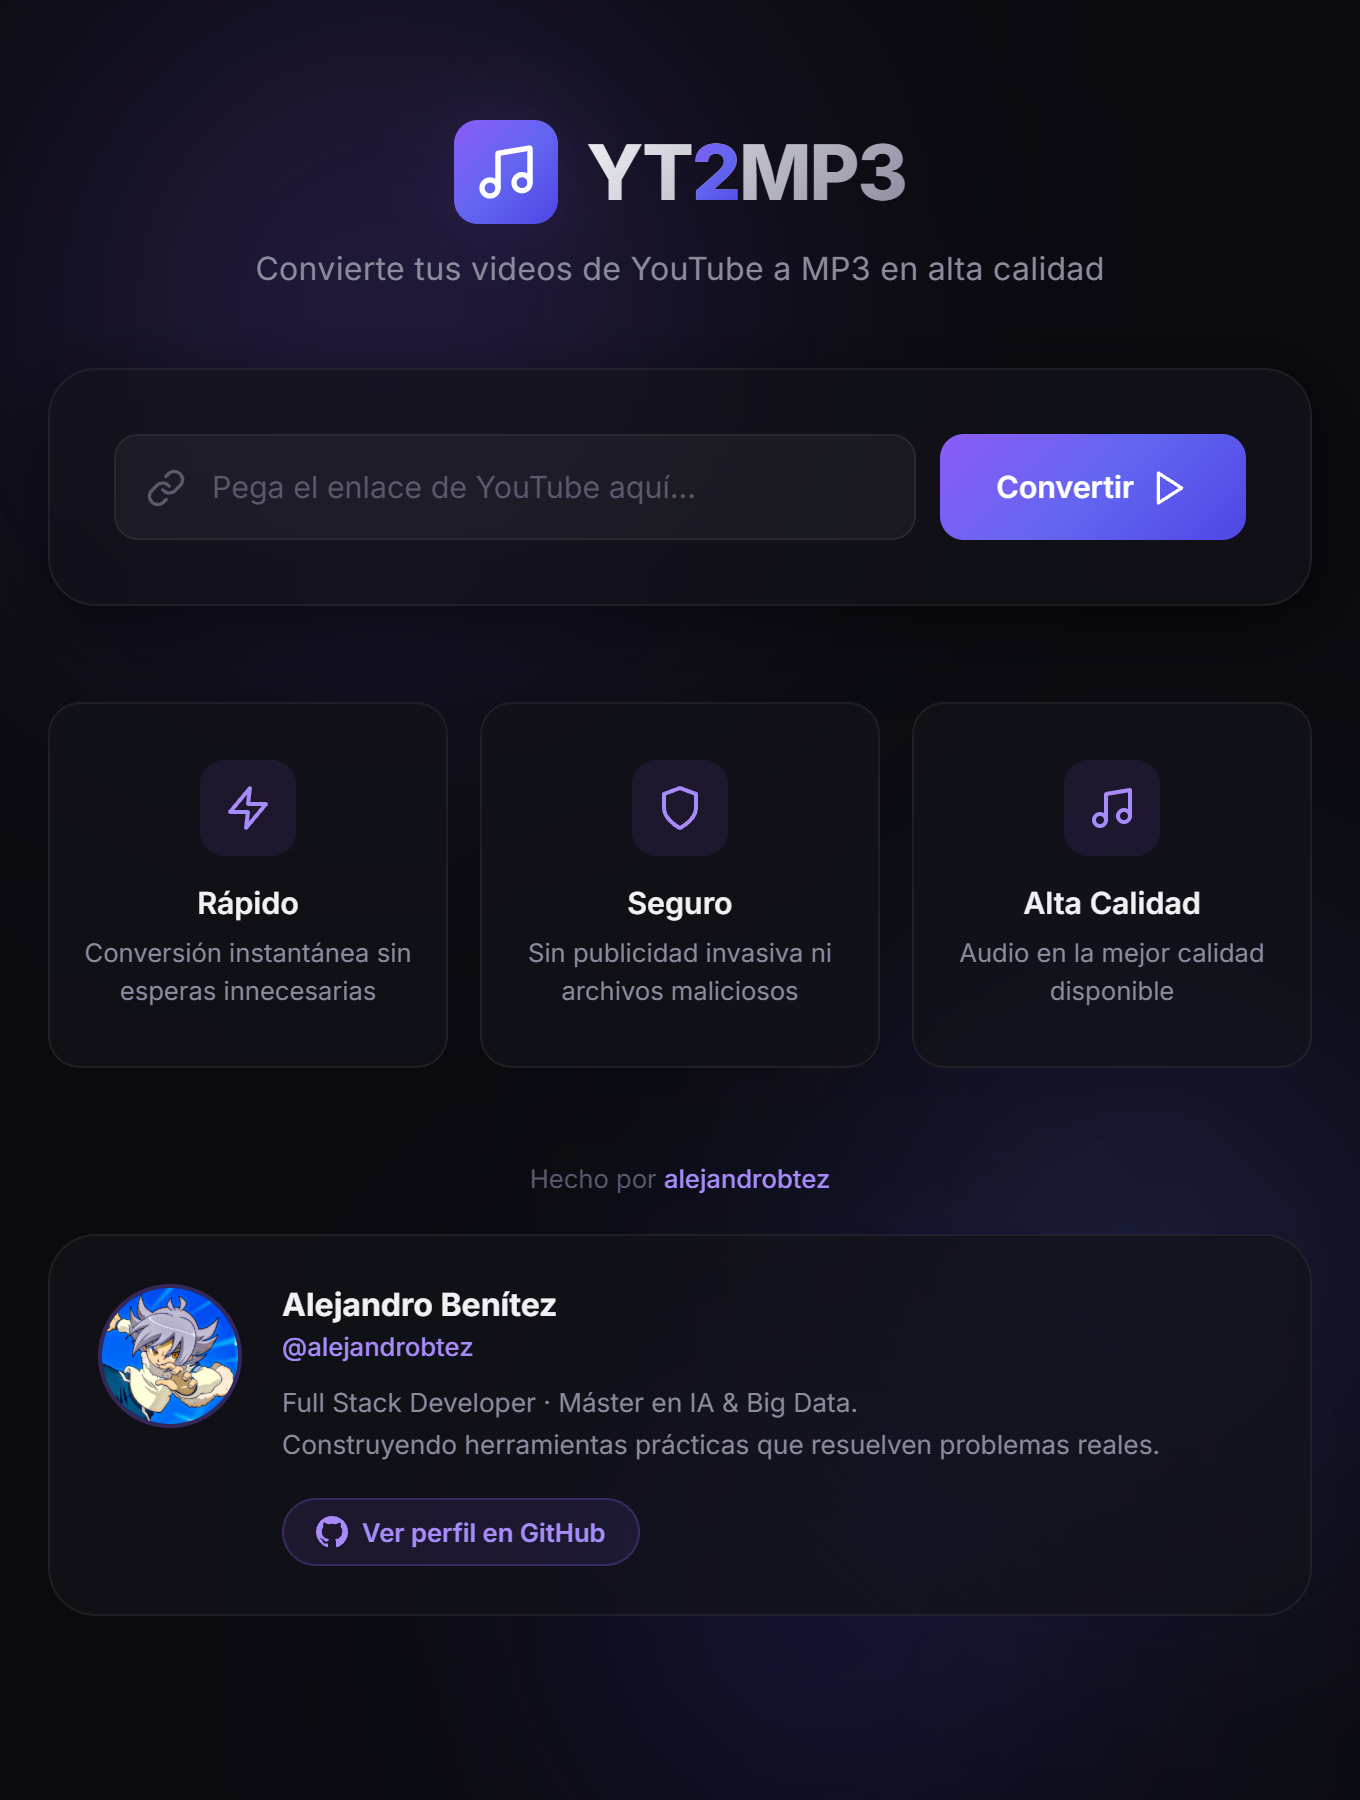
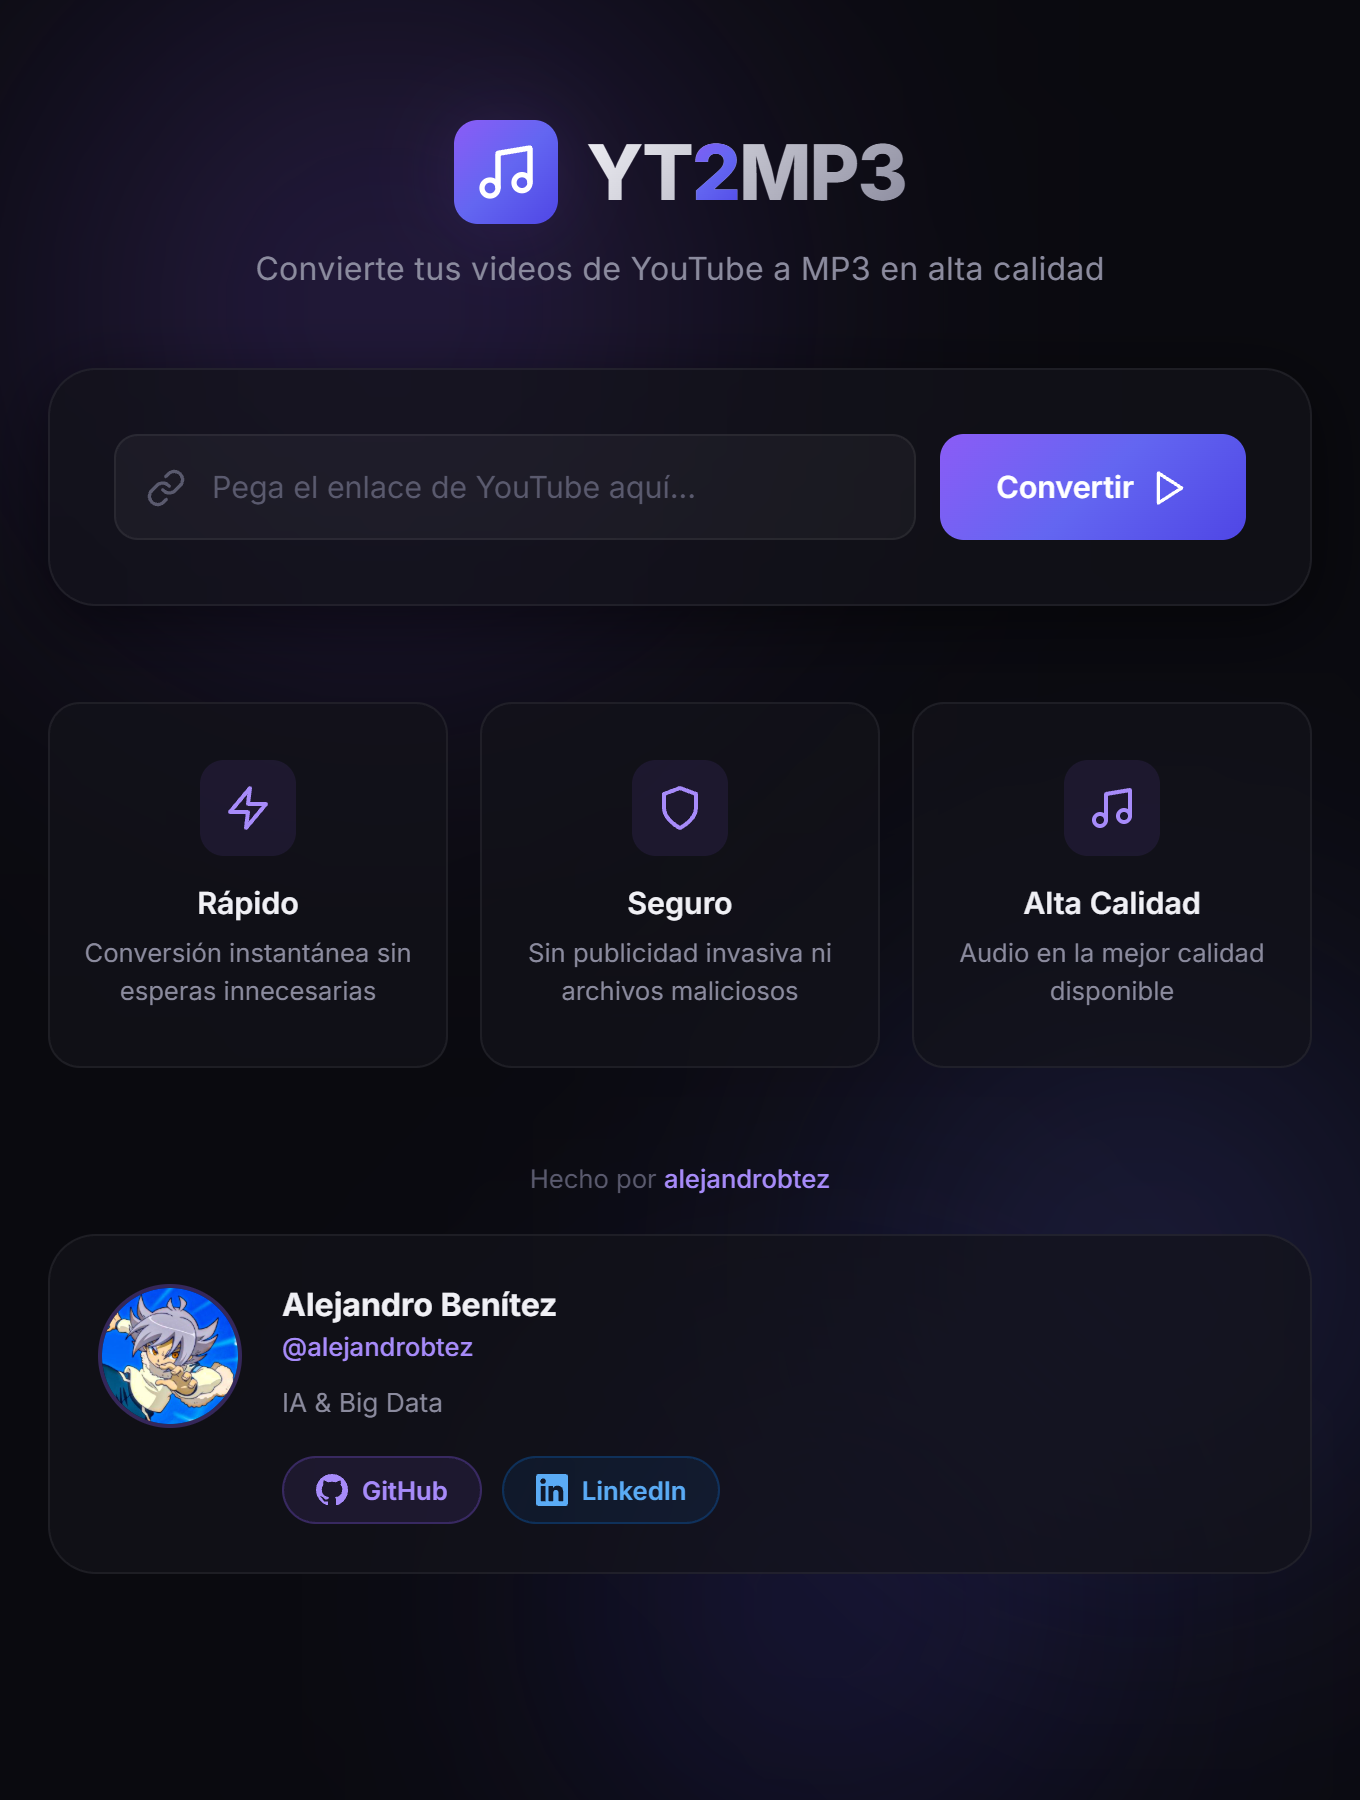
Simplify author bio and add LinkedIn link

Changed region(s): [[0.2162, 0.7778, 0.8338, 0.8711]]

diff --git a/public/index.html b/public/index.html
@@ -148,20 +148,21 @@
         <div class="author-info">
           <div class="author-name">Alejandro Benítez</div>
           <div class="author-handle">@alejandrobtez</div>
-          <p class="author-bio">
-            Full Stack Developer · Máster en IA &amp; Big Data.<br>
-            Construyendo herramientas prácticas que resuelven problemas reales.
-          </p>
-          <a
-            href="https://github.com/alejandrobtez"
-            target="_blank"
-            class="author-gh-btn"
-          >
-            <svg width="16" height="16" viewBox="0 0 24 24" fill="currentColor">
-              <path d="M12 0C5.37 0 0 5.37 0 12c0 5.31 3.435 9.795 8.205 11.385.6.105.825-.255.825-.57 0-.285-.015-1.23-.015-2.235-3.015.555-3.795-.735-4.035-1.41-.135-.345-.72-1.41-1.23-1.695-.42-.225-1.02-.78-.015-.795.945-.015 1.62.87 1.845 1.23 1.08 1.815 2.805 1.305 3.495.99.105-.78.42-1.305.765-1.605-2.67-.3-5.46-1.335-5.46-5.925 0-1.305.465-2.385 1.23-3.225-.12-.3-.54-1.53.12-3.18 0 0 1.005-.315 3.3 1.23.96-.27 1.98-.405 3-.405s2.04.135 3 .405c2.295-1.56 3.3-1.23 3.3-1.23.66 1.65.24 2.88.12 3.18.765.84 1.23 1.905 1.23 3.225 0 4.605-2.805 5.625-5.475 5.925.435.375.81 1.095.81 2.22 0 1.605-.015 2.895-.015 3.3 0 .315.225.69.825.57A12.02 12.02 0 0 0 24 12c0-6.63-5.37-12-12-12z"/>
-            </svg>
-            Ver perfil en GitHub
-          </a>
+          <p class="author-bio">IA &amp; Big Data</p>
+          <div class="author-links">
+            <a href="https://github.com/alejandrobtez" target="_blank" class="author-gh-btn">
+              <svg width="16" height="16" viewBox="0 0 24 24" fill="currentColor">
+                <path d="M12 0C5.37 0 0 5.37 0 12c0 5.31 3.435 9.795 8.205 11.385.6.105.825-.255.825-.57 0-.285-.015-1.23-.015-2.235-3.015.555-3.795-.735-4.035-1.41-.135-.345-.72-1.41-1.23-1.695-.42-.225-1.02-.78-.015-.795.945-.015 1.62.87 1.845 1.23 1.08 1.815 2.805 1.305 3.495.99.105-.78.42-1.305.765-1.605-2.67-.3-5.46-1.335-5.46-5.925 0-1.305.465-2.385 1.23-3.225-.12-.3-.54-1.53.12-3.18 0 0 1.005-.315 3.3 1.23.96-.27 1.98-.405 3-.405s2.04.135 3 .405c2.295-1.56 3.3-1.23 3.3-1.23.66 1.65.24 2.88.12 3.18.765.84 1.23 1.905 1.23 3.225 0 4.605-2.805 5.625-5.475 5.925.435.375.81 1.095.81 2.22 0 1.605-.015 2.895-.015 3.3 0 .315.225.69.825.57A12.02 12.02 0 0 0 24 12c0-6.63-5.37-12-12-12z"/>
+              </svg>
+              GitHub
+            </a>
+            <a href="https://www.linkedin.com/in/alejandrobtez" target="_blank" class="author-li-btn">
+              <svg width="16" height="16" viewBox="0 0 24 24" fill="currentColor">
+                <path d="M20.447 20.452h-3.554v-5.569c0-1.328-.027-3.037-1.852-3.037-1.853 0-2.136 1.445-2.136 2.939v5.667H9.351V9h3.414v1.561h.046c.477-.9 1.637-1.85 3.37-1.85 3.601 0 4.267 2.37 4.267 5.455v6.286zM5.337 7.433a2.062 2.062 0 0 1-2.063-2.065 2.064 2.064 0 1 1 2.063 2.065zm1.782 13.019H3.555V9h3.564v11.452zM22.225 0H1.771C.792 0 0 .774 0 1.729v20.542C0 23.227.792 24 1.771 24h20.451C23.2 24 24 23.227 24 22.271V1.729C24 .774 23.2 0 22.222 0h.003z"/>
+              </svg>
+              LinkedIn
+            </a>
+          </div>
         </div>
       </div>
     </footer>

diff --git a/public/style.css b/public/style.css
@@ -611,16 +611,20 @@ body {
   margin-top: 6px;
 }
 
-.author-gh-btn {
+.author-links {
+  display: flex;
+  gap: 10px;
+  margin-top: 12px;
+  flex-wrap: wrap;
+}
+
+.author-gh-btn,
+.author-li-btn {
   display: inline-flex;
   align-items: center;
   gap: 7px;
-  margin-top: 12px;
   padding: 8px 16px;
-  background: rgba(139, 92, 246, 0.1);
-  border: 1px solid rgba(139, 92, 246, 0.25);
   border-radius: var(--radius-full);
-  color: var(--accent-secondary);
   font-size: 0.8rem;
   font-weight: 600;
   text-decoration: none;
@@ -628,9 +632,28 @@ body {
   width: fit-content;
 }
 
+.author-gh-btn {
+  background: rgba(139, 92, 246, 0.1);
+  border: 1px solid rgba(139, 92, 246, 0.25);
+  color: var(--accent-secondary);
+}
+
 .author-gh-btn:hover {
   background: rgba(139, 92, 246, 0.2);
   border-color: rgba(139, 92, 246, 0.5);
+  color: var(--text-primary);
+  transform: translateY(-1px);
+}
+
+.author-li-btn {
+  background: rgba(10, 102, 194, 0.1);
+  border: 1px solid rgba(10, 102, 194, 0.3);
+  color: #5aabf5;
+}
+
+.author-li-btn:hover {
+  background: rgba(10, 102, 194, 0.2);
+  border-color: rgba(10, 102, 194, 0.6);
   color: var(--text-primary);
   transform: translateY(-1px);
 }
